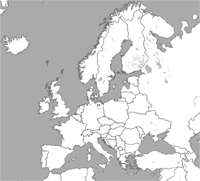
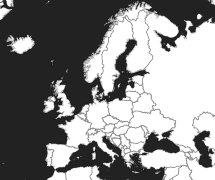
Switched to black overview map (and generalized borders)

diff --git a/css/bump.css b/css/bump.css
@@ -36,7 +36,7 @@ div#miniMap {
 	top:0px;
 	right:0px;
 	margin:5px;
-	background-image:url("../img/overviewMap-215x180.png"); width: 215px; height: 180px; left: 5px;
+	background-image:url("../img/overviewMap.png"); width: 215px; height: 180px; left: 5px;
 }
 div#overviewRect { position:relative; top:0px; left:0px; border: 1px solid #ff6360; width:20px; height: 20px; }
 

diff --git a/js/bump.js b/js/bump.js
@@ -6,7 +6,7 @@
 // })
 	
 var settings = {
-	incidentsFileName: "data/test-incidents.tsv",
+	incidentsFileName: "data/dummy-incidents.tsv",
 	countriesGeoJsonFilename: "data/europe.geo.json",
 	// tileServerString: 'http://localhost:8888/map/bb-eu/{z}/{x}/{y}.png', // Caravan
 	tileServerString: 'http://{s}.tile.stamen.com/toner-lite/{z}/{x}/{y}.png', // Stamen Toner
